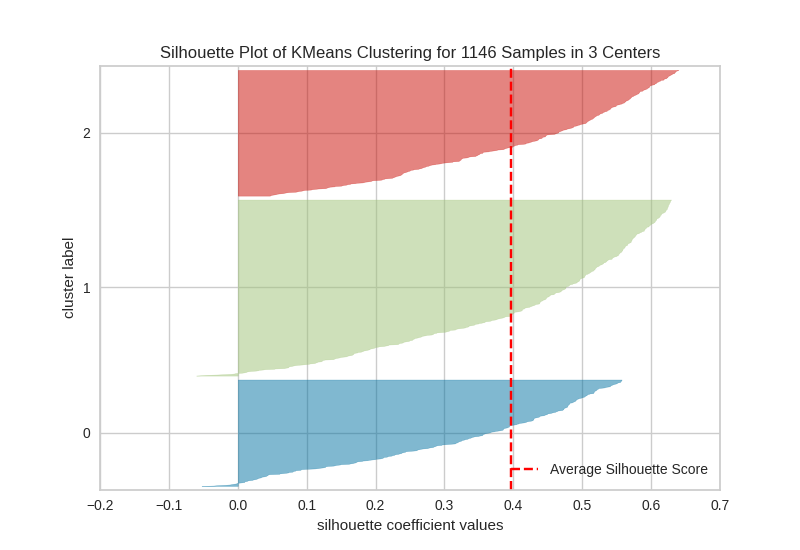
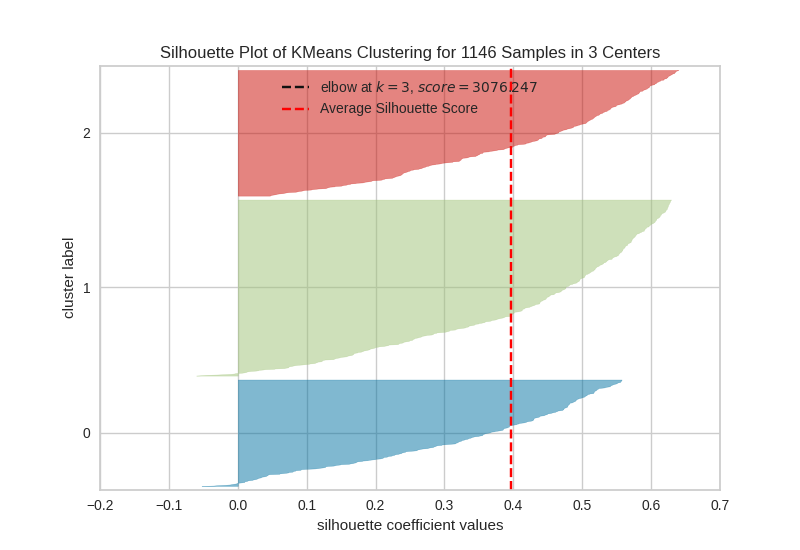
finalizing

Changed region(s): [[0.3438, 0.1545, 0.6562, 0.2164], [0.6875, 0.8345, 0.875, 0.8655]]

diff --git a/kmeans.py b/kmeans.py
@@ -7,17 +7,10 @@ from sklearn.metrics import silhouette_score
 import matplotlib.pyplot as plt
 from sklearn.preprocessing import StandardScaler
 import seaborn as sns
-from sklearn.manifold import MDS
-from sklearn.preprocessing import MinMaxScaler
-from sklearn import mixture
-from sklearn.cluster import AgglomerativeClustering
 from sklearn.decomposition import PCA
 from mlxtend.plotting import plot_pca_correlation_graph
 
-
 df = pd.read_csv("kmean_ata.csv")
-
-#Clustering
 
 #normalizing
 scaler = StandardScaler()
@@ -28,72 +21,67 @@ pca = PCA(n_components=2)
 X_pca = pca.fit_transform(X_scaled)
 print(pca.explained_variance_ratio_)
 
+#elbow method
+kmeans_pca_el = KMeans()
+visualizer_elbow = KElbowVisualizer(kmeans_pca_el, k=(1,8), timings=False)
+visualizer_elbow.fit(X_pca)
+visualizer_elbow.show(outpath= "elbow.png")
+
 #Run K-Means 
 kmeans_pca = KMeans(n_clusters=3, random_state=42, n_init=10)
-df["cluster"] = kmeans_pca.fit_predict(X_pca)
-labels_pca = df["cluster"]
+
+#create pca dataframe
+df_pca = pd.DataFrame(X_pca, columns=["PCA_1", "PCA_2"])
+df_pca["cluster"] = kmeans_pca.fit_predict(X_pca)
+
+labels_pca = df_pca["cluster"]
 
 #Check silhouette score
 S_pca = (silhouette_score(X_pca, labels_pca))
 print(S_pca)
 
-#pca dataframe
-df_pca = pd.DataFrame(X_pca, columns=["PCA_1", "PCA_2"])
-df_pca["Cluster"] = df["cluster"]
-
-visualizer = SilhouetteVisualizer(kmeans_pca, colors='yellowbrick')
+#silhouette plot
+visualizer = SilhouetteVisualizer(kmeans_pca, colors="yellowbrick")
 visualizer.fit(X_pca)
 visualizer.show(outpath = "silhouette_plot.png")
 
-#Correlation Graph
-feature_names = df.drop(columns=["cluster"]).columns.tolist()
-
-#Plot PCA Correlation Graph
-fig, cor_mat = plot_pca_correlation_graph(X_scaled, 
-                                          feature_names, 
-                                          dimensions=(1, 2), 
-                                          figure_axis_size=10)
-
-print(cor_mat)
+#calculate mean values for each cluster
+cluster_means = df_pca.groupby("cluster").mean()
+print(cluster_means)
 
 #plot Kmeans clustering
 plt.figure(figsize=(8,6))
-sns.scatterplot(x=df_pca["PCA_1"], y=df_pca["PCA_2"], hue=df_pca["Cluster"], palette="Set1")
+sns.scatterplot(x=df_pca["PCA_1"], y=df_pca["PCA_2"], hue=df_pca["cluster"], palette="Set1")
 plt.xlabel("PCA Component 1")
 plt.ylabel("PCA Component 2")
 plt.title("K-Means Clustering")
 plt.legend(title="Cluster")
 plt.savefig("Kmeans_clustering")
 
-
 #plt cluster %
-cluster_count = df["cluster"].value_counts()
+cluster_count = df_pca["cluster"].value_counts()
 
 plt.figure(figsize=(5,5))
 plt.pie(cluster_count, labels = cluster_count.index, autopct="%1.1f%%")
 plt.title("Cluster sizes")
 plt.savefig("cluster_size.png")
 
-#Get PCA loadings
-pca_loadings = pd.DataFrame(pca.components_.T, columns=["PCA_1", "PCA_2"], index=df.drop(columns=["cluster"]).columns)
+#compute pca loadings
+pca_loadings = pd.DataFrame(pca.components_.T, columns=["PCA_1", "PCA_2"], index=df.columns)
 
-#Sort features by importance for each PCA component
+#extracting top contributing features from pca
 top_features_pca1 = pca_loadings["PCA_1"].abs().sort_values(ascending=False).head(10)
 top_features_pca2 = pca_loadings["PCA_2"].abs().sort_values(ascending=False).head(10)
 
-print("Top Features Contributing to PCA Component 1:")
-print(top_features_pca1)
+# Combine for visualization
+pca_features = pd.concat([top_features_pca1, top_features_pca2], axis=1)
 
-print("Top Features Contributing to PCA Component 2:")
-print(top_features_pca2)
-
-#Select top contributing features from PCA loadings
-top_features = top_features_pca1.index.tolist() + top_features_pca2.index.tolist()
-
-#Visualize feature distributions across clusters
-plt.figure(figsize=(12, 6))
-for feature in top_features[:6]:  #Only plot first 6 features for readability
-    sns.boxplot(x=df["cluster"], y=df[feature])
-    plt.title(f"Distribution of {feature} Across Clusters")
-    plt.savefig("feature_dist.png")
+# Plot the top contributing features
+plt.figure(figsize=(10, 6))
+pca_features.plot(kind="barh", figsize=(12, 8), width=0.4, color=["blue", "orange"])
+plt.xlabel("Feature Contribution to PCA")
+plt.ylabel("Features")
+plt.title("Top 10 Features Contributing to PCA Components")
+plt.legend(["PCA_1", "PCA_2"])
+plt.savefig("pca_feature_importance.png")
 

diff --git a/cleaning.py b/cleaning.py
@@ -25,18 +25,18 @@ df.columns = renamed_columns
 def clean_gender(gender):
     
     gender = str(gender).strip().lower()
-    # Male variations
+    #Male variations
     male_variants = ["male", "m", "male-ish", "maile", "mal", "male (cis)", "make", "male ", "man","msle", "mail", "malr","cis man", "cis male"]
     
-    # Female variations
+    #Female variations
     female_variants = ["cis female", "f", "female", "woman",  "femake", "female ","cis-female/femme", "female (cis)", "femail"]
     
-    # Non-binary / Other
+    #Non-binary / Other
     nonbinary_variants = ["trans-female", "something kinda male?", "queer/she/they", "non-binary","nah", "all", "enby", "fluid", 
                           "genderqueer", "androgyne", "agender", "male leaning androgynous", "guy (-ish) ^_^", "trans woman", "neuter", 
                           "female (trans)", "queer", "ostensibly male, unsure what that really means", "p", "a little about you"]
 
-    # Map values
+    #Map values
     if gender in male_variants:
         return 'Male'
     elif gender in female_variants:
@@ -46,7 +46,7 @@ def clean_gender(gender):
     else:
         return 'Prefer not to say'
 
-# Apply function to Gender column
+#Apply function to Gender column
 df['gender'] = df['gender'].apply(clean_gender)
 
 #create heatmap of missing values
@@ -69,9 +69,6 @@ missing_summary = missing_percentage[missing_percentage > 0].sort_values(ascendi
 #replace outliers in age with the median
 median_age = df["age"].median()
 df.loc[(df["age"] < 18) | (df["age"] > 100), "age"] = median_age
-
-mean_age = df["age"].median()
-print(mean_age)
 
 #replace null values in mh_coverage with mode
 df["mh_coverage"].fillna(df["mh_coverage"].mode()[0], inplace=True)

diff --git a/dimensionality_reduction.py b/dimensionality_reduction.py
@@ -8,7 +8,7 @@ from sklearn.decomposition import PCA
 from scipy import stats
 
 
-# Load dataset
+#Load dataset
 df = pd.read_csv("mh_data_feature_eng.csv")
 
 #Feature Variance
@@ -21,7 +21,7 @@ print(selector.variances_)
 #Correlation Matrix
 corr_matrix_pearson = df.corr(method= "pearson")
 
-# plt correlation Matrix pearsoon
+#plt correlation Matrix pearsoon
 plt.figure(figsize=(12, 8))
 sns.heatmap(corr_matrix_pearson, cmap="coolwarm", annot=False)
 plt.title("Correlation Matrix Pearson")
@@ -33,7 +33,7 @@ df.drop("country_work", axis = 1, inplace = True)
 #Correlation Matrix 
 corr_matrix_spearman = df.corr(method= "spearman")
 
-# plt correlation matrix spearman
+#plt correlation matrix spearman
 plt.figure(figsize=(12, 8))
 sns.heatmap(corr_matrix_spearman, cmap="coolwarm", annot=False)
 plt.title("Correlation Matrix spearman")
